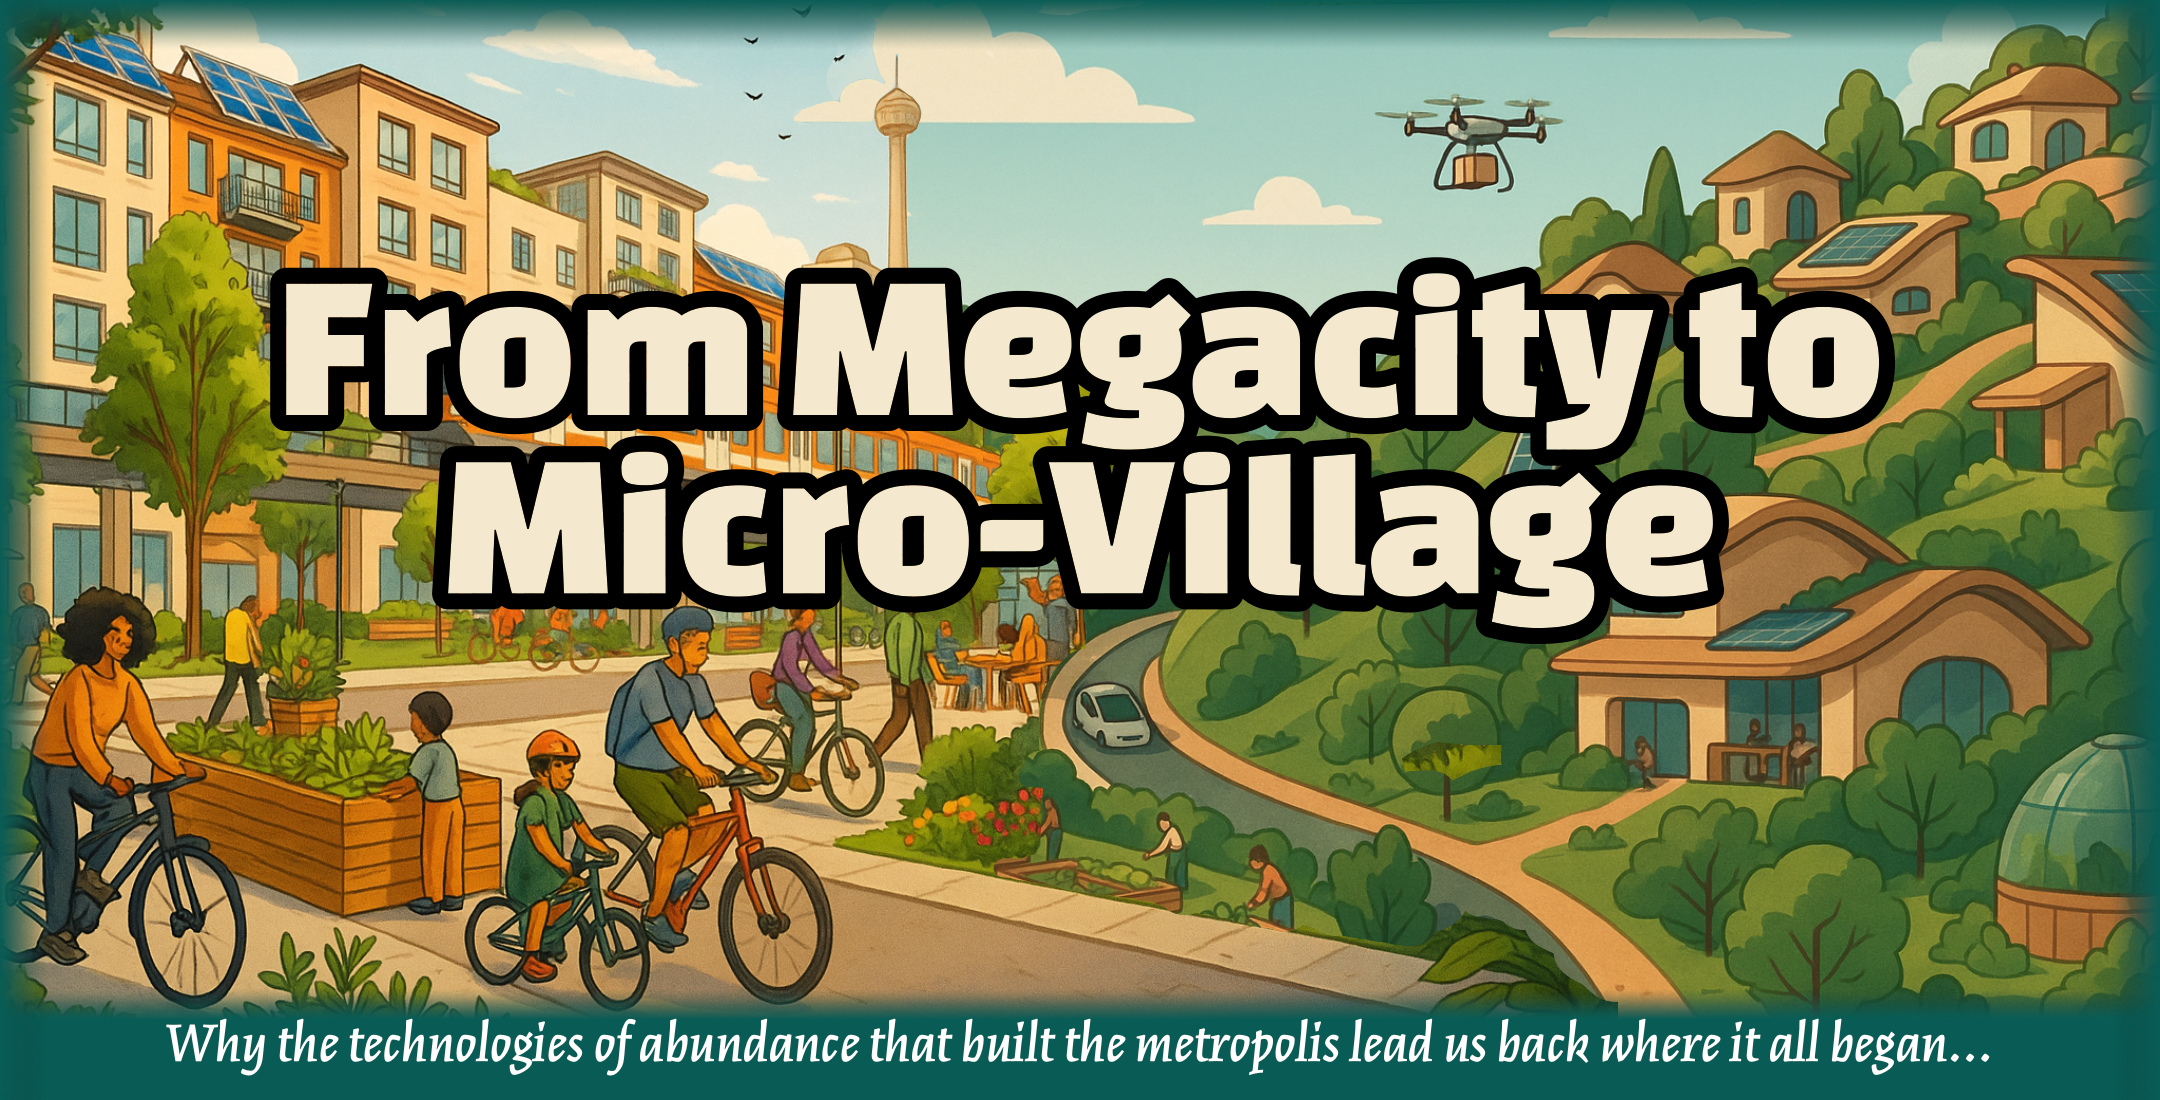
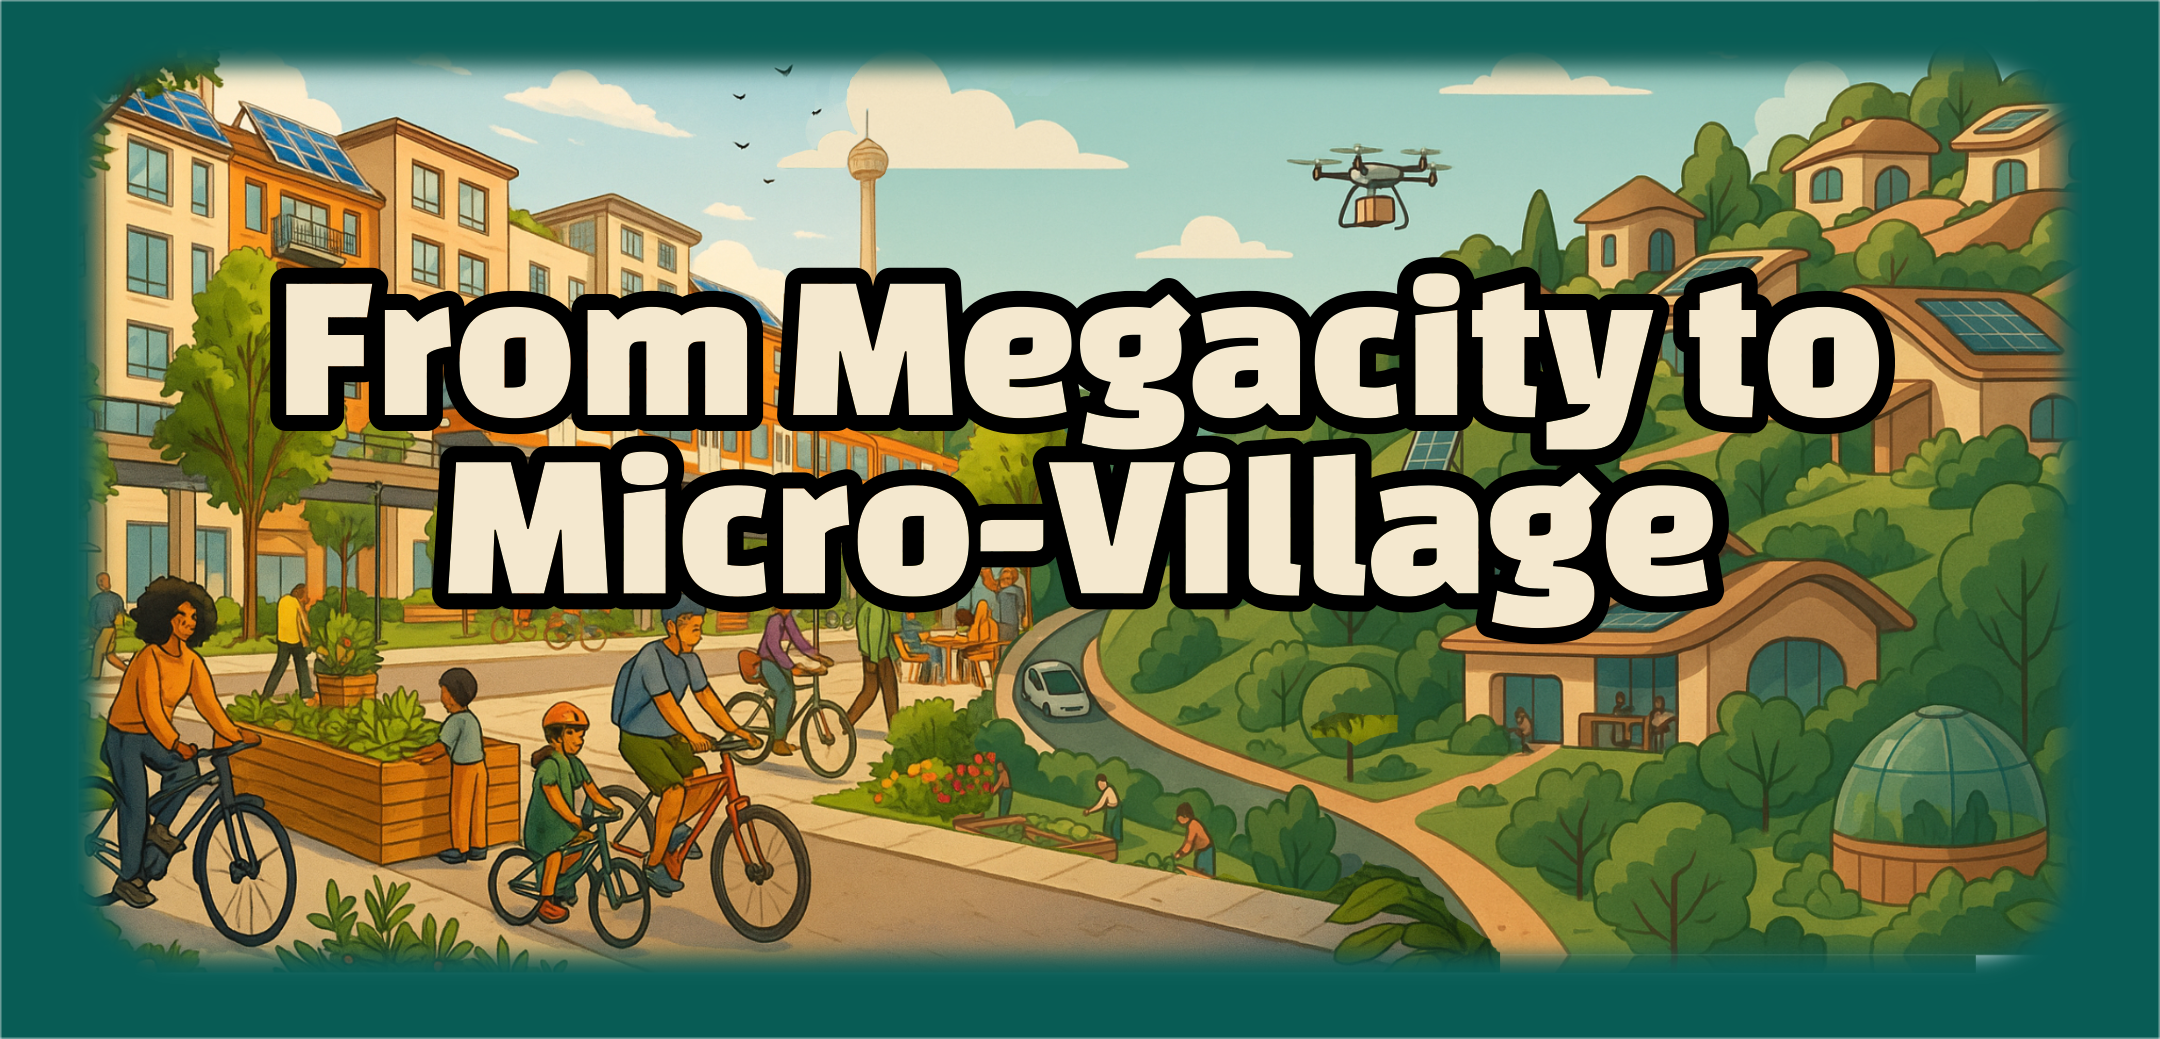
Header Image and Footer Sources
• Updated header image to look nicer.
• Updated footer sources in MLA format

diff --git a/index.html b/index.html
@@ -16,6 +16,7 @@
  header h1{margin:.2rem 0;font-size:2rem;letter-spacing:.02em}
  header p{margin:0;font-style:italic}
  section{max-width:900px;margin:2rem auto;padding:0 1rem}
+ h1{color:var(--teal);margin-top:0.5rem}
  h2{color:var(--teal);margin-top:0.5rem}
  canvas{max-width:100%;height:380px;margin:1rem 0;border:1px solid #ddd;border-radius:6px;background:#fff}
  .caption{font-size:.85rem;margin-top:-.5rem;color:#555;text-align:center}
@@ -46,10 +47,12 @@
 <body>
 <header>
  <img src="images/urbanist-exurb-header.png" width="2160" height="1100"
-      alt="From Megacity to Micro-Village — Why the technologies of abundance that built the metropolis lead us back where it all began…">
+      alt="From Megacity to Micro-Village">
 </header>
 
 <section id="intro">
+ <h1>Why the technologies of abundance<br> that built the metropolis of today<br>
+	 will lead us back to where it all began…</h1>
  <h2>1. A Century on Fast-Forward</h2>
  <p class="narrated" data-audio="01-intro.mp4">In 1950 barely <strong>30%</strong> of humanity lived in cities; by 2020 that share exceeded <strong>56%</strong>, powered by highways, antibiotics, silicon chips, and the promise of steady wages.  Urbanists framed density as civilization’s best climate hack—shorter commutes, smaller homes, richer streets.  That narrative still holds truth, yet the tools it celebrated are quietly rewiring the equation.  High-bandwidth networks, solar micro-grids, and autonomous logistics are erasing the old requirement to pile people and capital on the same GPS coordinates.<br><br>
  This presentation maps two crossing curves.  One is the <em>social trend</em> of urbanization that has dominated since the Industrial Revolution.  The other is a suite of <em>technological trends</em>—remote work, automation, cheap clean energy—whose long arcs now bend opportunity <em>outward</em>, toward smaller towns, “rurban” fringes, and regenerated village cores.  Follow the inflection and you glimpse an ecological, economical future that feels less like sprawl and more like <em>Infinite Exurbanism</em>.</p>
@@ -95,10 +98,11 @@
 <footer id="works">
  <h2>Works Cited (MLA)</h2>
  <ol>
-  <li>United Nations, Department of Economic and Social Affairs, Population Division. <em>World Urbanization Prospects: The 2018 Revision</em>. United Nations, 2019.</li>
-  <li>Glaeser, Edward L. <em>Triumph of the City</em>. Penguin Press, 2011.</li>
-  <li>Parker, Kim. “COVID-19 Pandemic Continues to Reshape Work in America.” <em>Pew Research Center</em>, 5 Feb. 2022, www.pewresearch.org.</li>
-  <li>International Energy Agency. <em>World Energy Outlook 2023</em>. IEA, 2023.</li>
+	<li>Glaeser, Edward L. <em>Triumph of the City: How Our Greatest Invention Makes Us Richer, Smarter, Greener, Healthier, and Happier</em>. Penguin Press, 2011.</li> 
+	<li>Hannah Ritchie, Veronika Samborska, and Max Roser (2024). “Urbanization” Published online at <em>OurWorldinData.org</em>. Retrieved from: 'https://ourworldindata.org/urbanization' [Online Resource] Accessed: 12 June 2025</li>
+	<li>International Energy Agency. <em>World Energy Outlook 2024.</em> https://www.iea.org/reports/world-energy-outlook-2024 IEA, October 2024. Accessed: 12 June 2025</li>
+	<li>Parker, Kim. “COVID‑19 Pandemic Continues to Reshape Work in America.” <em>Pew Research Center</em>, 16 Feb. 2022, www.pewresearch.org/social-trends/2022/02/16/covid-19-pandemic-continues-to-reshape-work-in-america/. Accessed: 12 June 2025</li>
+	<li>United Nations (2024). <em>World Population Prospects 2024: Summary of Results.</em> UN DESA/POP/2024/TR/NO. 9. https://population.un.org/wup/ New York: United Nations. Accessed: 12 June 2025</li>
  </ol>
 </footer>
 
